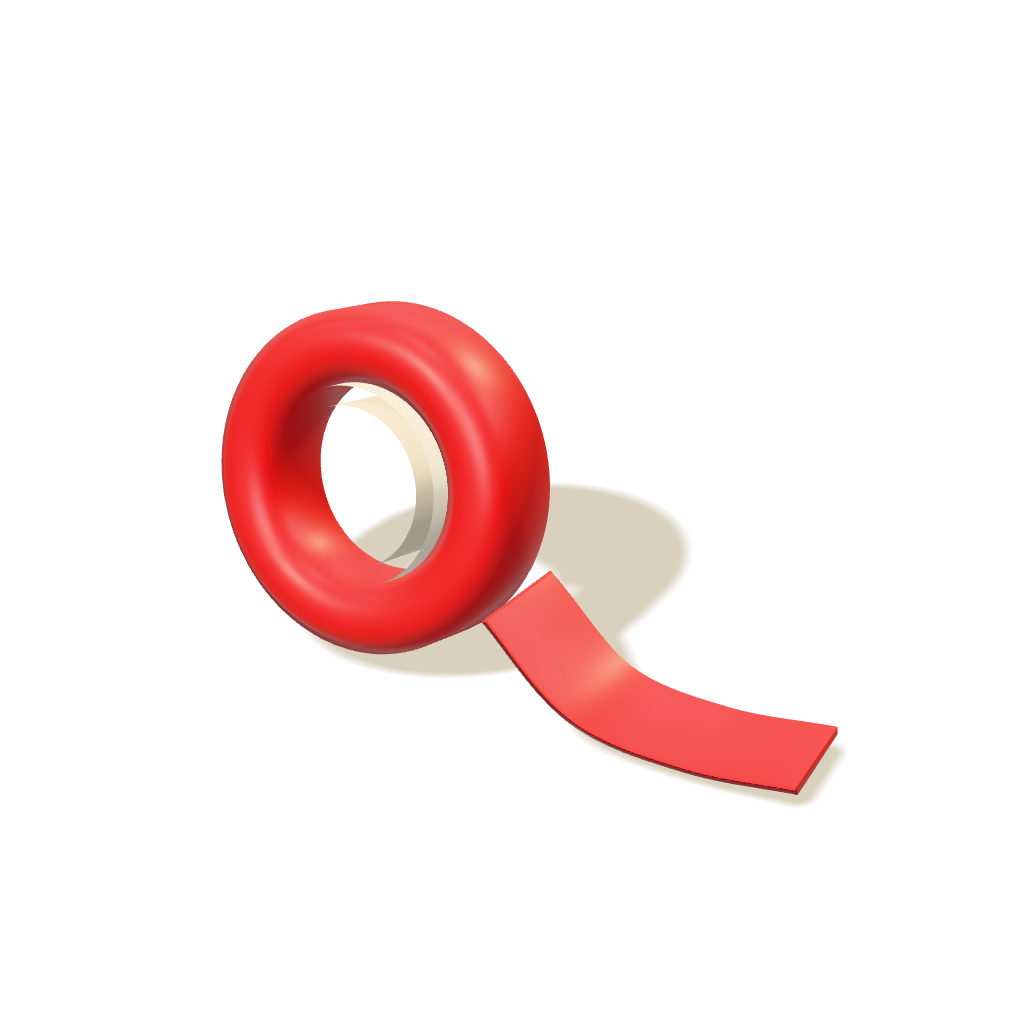
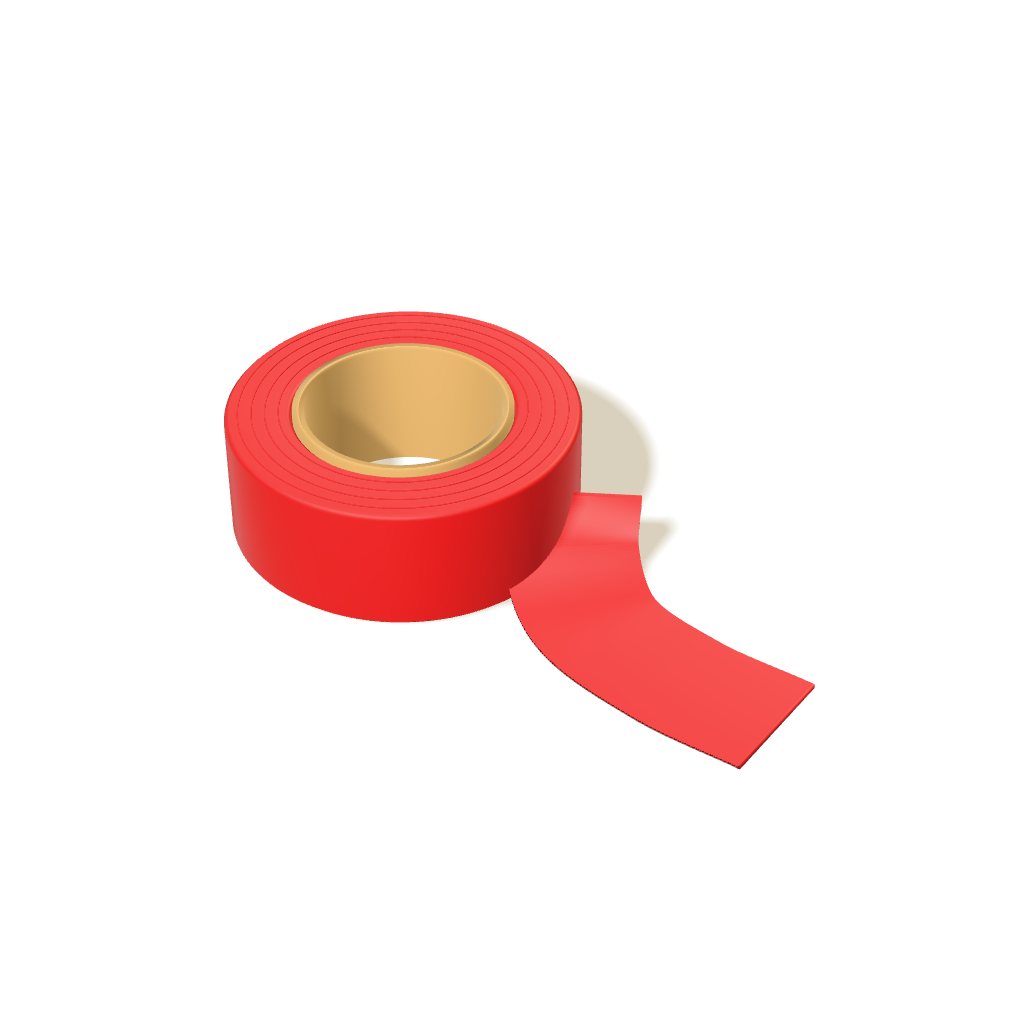
Rebuild tape roll (A05) as wide packing tape with kraft core; refresh A04
Claude-Session: https://claude.ai/code/session_01Ejz9q7zYs2CvVRMxC4WqZ6

Changed region(s): [[0.2188, 0.2812, 0.8438, 0.8125]]

diff --git a/jdc-cengkareng/clay-lab/factory.html b/jdc-cengkareng/clay-lab/factory.html
@@ -65,8 +65,14 @@ function bubbleObj(o={}){const bw=o.w||1.7,bh=o.h||1.05,br=.42,s=new THREE.Shape
   const g=grp(ext(s,.18,.16,o.m||M.W,10));
   if(o.lines!==false)[[-.18,.16,.95],[-.34,-.14,.62]].forEach(([x,y,w])=>g.add(at(rbox(w,.14,.06,.06,M.Gy),x,y,.27)));return g}
 const platform=(rad=1.6)=>at(puck(rad,.28,.12,M.W),0,.14,0);
-const tapeRoll=(s=1)=>{const ri=.36,ro=.62,h=.42,rr=.08,p=[[ri+rr,-h/2],[ro-rr,-h/2],[ro,-h/2+rr],[ro,h/2-rr],[ro-rr,h/2],[ri+rr,h/2],[ri,h/2-rr],[ri,-h/2+rr],[ri+rr,-h/2]].map(q=>V2(q[0],q[1]));
-  const g=grp(mesh(new THREE.LatheGeometry(p,96),M.R));const c=new THREE.CylinderGeometry(.36,.36,.44,64,1,true);g.add(mesh(c,M.W));g.add(mesh(new THREE.CylinderGeometry(.29,.29,.445,64,1,true),M.Wd));g.scale.setScalar(s);return g};
+const tapeRoll=(s=1)=>{ // realistic packing tape: wide flat band, thin kraft core, crisp edges
+  const ri=.46,ro=.74,h=.56,rr=.025,core=.05;
+  const tp=[[ri+rr,-h/2],[ro-rr,-h/2],[ro,-h/2+rr],[ro,h/2-rr],[ro-rr,h/2],[ri+rr,h/2],[ri,h/2-rr],[ri,-h/2+rr],[ri+rr,-h/2]].map(q=>V2(q[0],q[1]));
+  const g=grp(mesh(new THREE.LatheGeometry(tp,128),M.R));
+  for(let k=1;k<5;k++)g.add(at(new THREE.Mesh(new THREE.TorusGeometry(ri+k*(ro-ri)/5,.0035,6,128),M.Rm),0,h/2+.001,0,Math.PI/2,0,0));
+  const cp=[[ri-core,-h/2-.005],[ri,-h/2-.005],[ri,h/2+.005],[ri-core,h/2+.005],[ri-core,-h/2-.005]].map(q=>V2(q[0],q[1]));
+  g.add(mesh(new THREE.LatheGeometry(cp,128),clay('#C9A066',{sheen:'#fff1c2'})));
+  g.scale.setScalar(s);return g};
 
 /* ---------- asset builders ---------- */
 let FONT=null;
@@ -100,7 +106,9 @@ const B={
    g.add(at(ext(teeth,.03,.01,M.G2),1.36,.4,0,0,Math.PI/2,-.9));
    g.add(ribbon([V(.05,hub.y-RR+.005,0),V(.6,.6,0),V(1.1,.41,0),V(1.24,.39,0),V(1.4,.32,0),V(1.55,.12,0)],.42,.025,M.R,V(0,1,0)));
    return at(g,0,0,0,0,-.18,0)},
- A05:()=>{const g=grp(at(tapeRoll(),0,.62,0,Math.PI/2-.25,0,.15));g.add(ribbon([V(.6,.36,.18),V(.95,.08,.25),V(1.35,.03,.3),V(1.75,.06,.32)],.4,.03,M.R,V(0,1,0)));return at(g,0,0,0,0,-.4,0)},
+ A05:()=>{const g=grp(at(tapeRoll(1),0,.28,0));
+   g.add(ribbon([V(.74,.28,.0),V(.78,.12,.18),V(.95,.02,.45),V(1.35,.016,.7),V(1.8,.016,.85)],.56,.02,M.R,V(0,1,0)));
+   return at(g,0,0,0,0,-.3,0)},
  A06:()=>{const g=grp();
    g.add(at(rbox(2.0,1.05,1.6,.3,M.W),0,.52,0));
    g.add(at(rbox(1.9,.32,1.5,.16,M.G),0,1.02,-.02));
@@ -246,7 +254,7 @@ window.renderAsset=async(code,W=1024,H=1024)=>{
   const obj=B[code]();sc.add(obj);
   const box=new THREE.Box3().setFromObject(obj);obj.position.y-=box.min.y;box.setFromObject(obj);
   const sp=box.getBoundingSphere(new THREE.Sphere());
-  const EL={A07:42,A21:40,A19:55,A15:50,D01:32,A09:32,A10:32,A11:34};const el=THREE.MathUtils.degToRad(EL[code]||28),dir=V(0,Math.sin(el),Math.cos(el));
+  const EL={A05:38,A07:42,A21:40,A19:55,A15:50,D01:32,A09:32,A10:32,A11:34};const el=THREE.MathUtils.degToRad(EL[code]||28),dir=V(0,Math.sin(el),Math.cos(el));
   const vf=THREE.MathUtils.degToRad(cam.fov/2),hf=Math.atan(Math.tan(vf)*cam.aspect),f=Math.min(vf,hf);
   const dist=sp.radius/Math.sin(f)*({A09:.9,A10:.9,A11:.9,A21:.82,A07:.85,D01:.85}[code]||1.08);cam.position.copy(sp.center).addScaledVector(dir,dist);cam.lookAt(sp.center);
   const key=new THREE.DirectionalLight('#fff4dc',2.4);key.position.copy(sp.center).add(V(-5,8,6).multiplyScalar(sp.radius/1.5));key.target.position.copy(sp.center);

diff --git a/jdc-cengkareng/storyboard.html b/jdc-cengkareng/storyboard.html
@@ -545,7 +545,7 @@ const CODE={
  A01:'Three.js: rounded box + strip lakban + label. Live 3D, jadi bisa diputar dan dipantulkan dengan spring.',
  A02:'Three.js: 4 flap dengan engsel beneran. Dipakai untuk transisi T1 Flap burst dan tutup box di B8.',
  A03:'Three.js: POV dari dasar kardus, 4 dinding menyempit ke celah flap yang bercahaya.',
- A05:'Three.js: lathe ring merah satin + core putih. Bisa menggelinding masuk di B4.',
+ A05:'Three.js: gulungan lakban merah lebar dengan core kraft dan strip yang ketarik. Dua gulungan + satu strip membentuk simbol % di B4.',
  A07:'Three.js: roller conveyor U, 60+ roller putih, rel dan kaki graphite, 2 parcel di atas sabuk.',
  A08:'Three.js: arch tube merah + bidang laser emissive untuk T3.',
  A12:'Three.js: rounded box + layar berupa tekstur HTML, jadi thread chat bisa live dan bubble keluar dari layar.',
